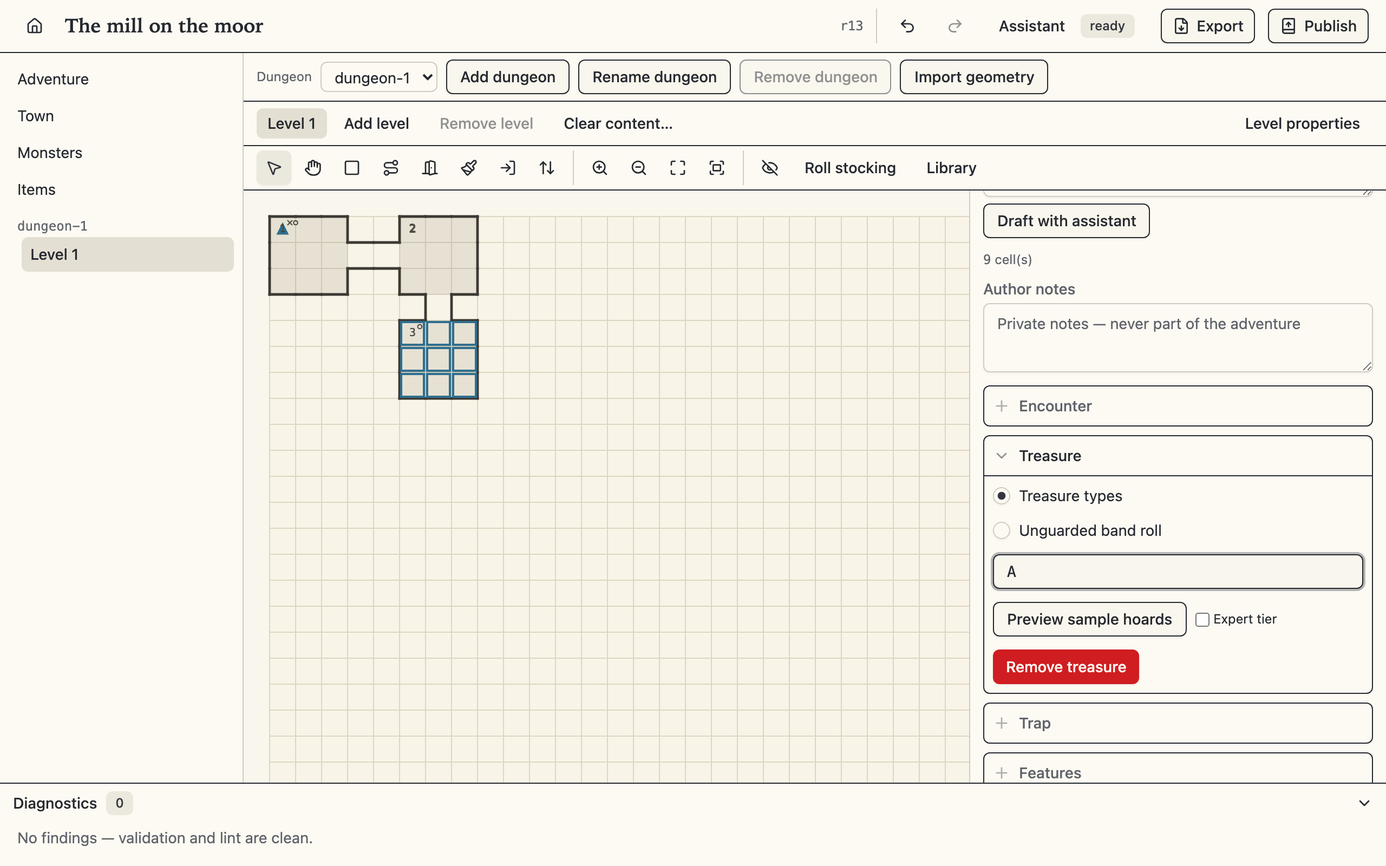
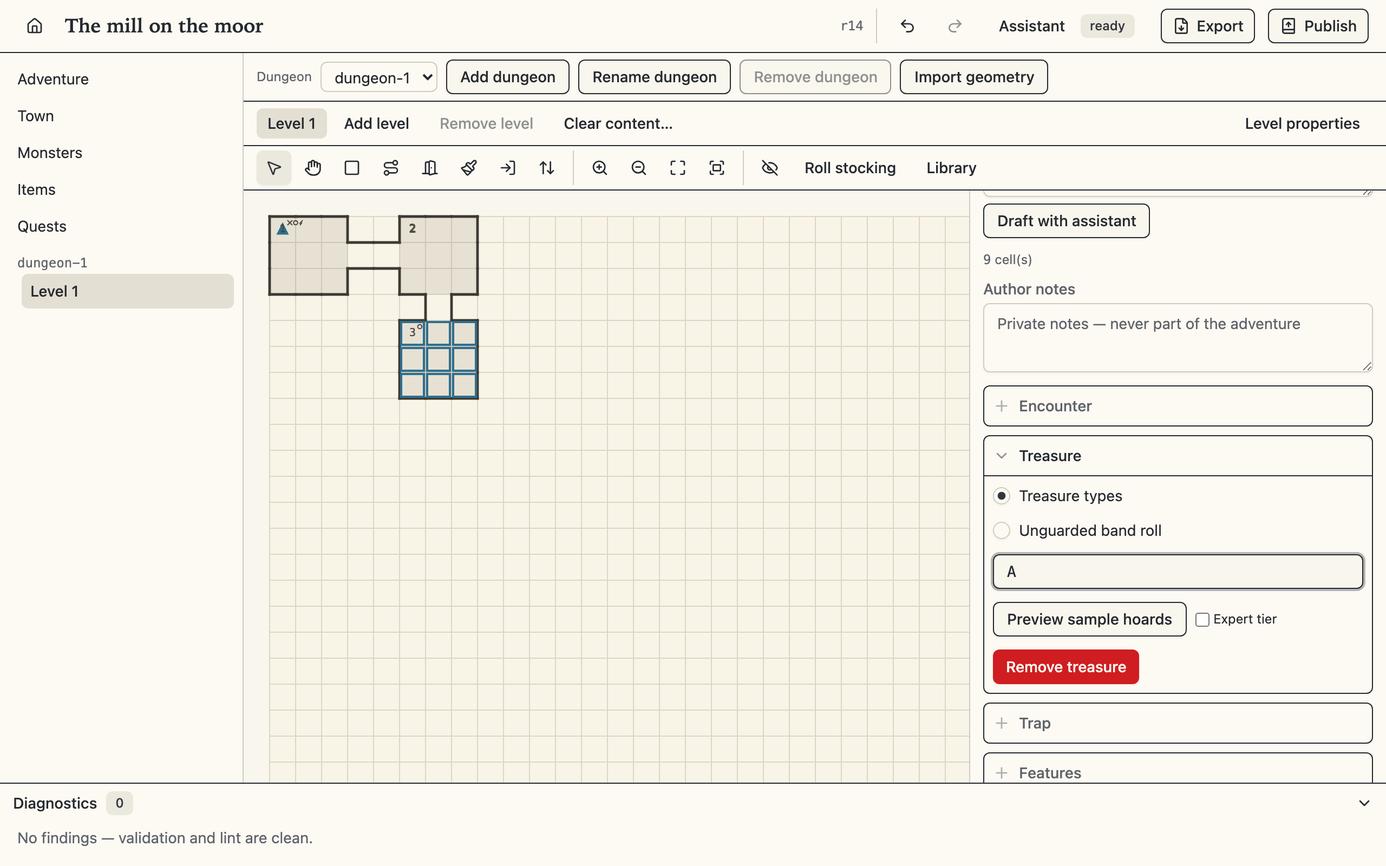
add the triggers guide, screenshots, README and CHANGELOG growth
Claude-Session: https://claude.ai/code/session_0166KkiY7Sv9PWZSoJHwKHsB

Changed region(s): [[0.0, 0.25, 0.1875, 0.375]]

diff --git a/tests/screenshots/native.spec.ts b/tests/screenshots/native.spec.ts
@@ -87,6 +87,7 @@ test('the project chrome, the map editor, and the stocking surfaces', async ({ p
   await expect(page.getByRole('button', { name: 'Adventure', exact: true })).toBeVisible()
   await expect(page.getByRole('button', { name: 'Town' })).toBeVisible()
   await expect(page.getByRole('button', { name: 'Monsters', exact: true })).toBeVisible()
+  await expect(page.getByRole('button', { name: 'Quests', exact: true })).toBeVisible()
   await shoot(page, 'project-chrome', testInfo)
 
   await openMap(page)
@@ -126,6 +127,7 @@ test('the project chrome, the map editor, and the stocking surfaces', async ({ p
   const menu = page.getByRole('menu')
   await expect(menu.getByRole('menuitem', { name: 'Add encounter' })).toBeVisible()
   await expect(menu.getByRole('menuitem', { name: 'Add treasure' })).toBeVisible()
+  await expect(menu.getByRole('menuitem', { name: 'Add trigger' })).toBeVisible()
   await shoot(menu, 'stocking-context-menu', testInfo)
 
   // Stock it: an encounter, then treasure and a trap on the same area, so the
@@ -179,6 +181,21 @@ test('the project chrome, the map editor, and the stocking surfaces', async ({ p
   await shoot(page.getByTestId('map-canvas'), 'area-hover-card', testInfo)
   await page.getByRole('button', { name: 'Unstocked filter' }).hover()
   await expect(hoverCard).toBeHidden()
+
+  // A trigger on the stocked room, so the key-glyphs shot shows the grown
+  // glyph vocabulary — the add gesture lands in the Quests panel, so the map
+  // is reopened before the shutter. The nav-scoped locator matters: the
+  // trigger row's own summary contains "level 1", so a bare Level 1 lookup
+  // would be ambiguous.
+  await page.mouse.click(guardCell.x, guardCell.y, { button: 'right' })
+  await page.getByRole('menuitem', { name: 'Add trigger' }).click()
+  await expect(page.getByTestId('trigger-detail-trigger-1')).toBeVisible()
+  await page
+    .getByRole('navigation', { name: 'Sections' })
+    .getByRole('button', { name: 'Level 1' })
+    .click()
+  await expect(page.getByTestId('map-canvas')).toBeVisible()
+  await page.getByRole('button', { name: 'Reset zoom' }).click()
 
   // The map's own reading: a stocked key number beside a hollow one, with the
   // unstocked filter dimming what is done.
@@ -357,6 +374,107 @@ test('import, export, and publish', async ({ page }, testInfo) => {
   const publishDialog = page.getByRole('dialog')
   await expect(publishDialog.getByLabel('osr-web checkout')).toHaveValue('')
   await shoot(publishDialog, 'publish-dialog', testInfo)
+})
+
+test('the quests section and the trigger surfaces', async ({ page }, testInfo) => {
+  test.setTimeout(120_000)
+  const projectDir = adventureDir(testInfo, 'trigger-demo.osr')
+
+  await freshProject(page, projectDir, 'The wheel room')
+
+  // A room drawn around the view centre — the gate-badges arrangement, so the
+  // glyph shot can magnify the lightning bolt without a pan gesture.
+  await openMap(page)
+  await page.getByRole('button', { name: 'Room tool' }).click()
+  await drag(page, await cellCenter(page, 10, 6), await cellCenter(page, 13, 8))
+  // The entrance sits in the far corner so its triangle never crowds the key
+  // number the glyph shot is about.
+  await page.getByRole('button', { name: 'Entrance tool' }).click()
+  const entranceCell = await cellCenter(page, 13, 8)
+  await page.mouse.click(entranceCell.x, entranceCell.y)
+  await page.getByRole('button', { name: 'Select tool' }).click()
+
+  // Stock the room so the glyph row has company: an encounter beside the bolt.
+  const leverCell = await cellCenter(page, 11, 7)
+  await page.mouse.click(leverCell.x, leverCell.y, { button: 'right' })
+  await page.getByRole('menuitem', { name: 'Add encounter' }).click()
+  const inspector = page.getByLabel('Inspector')
+  await inspector.getByRole('button', { name: 'Add monster' }).click()
+  await page.getByPlaceholder('Search monsters…').fill('orc')
+  await page
+    .getByRole('option', { name: /^Orc/ })
+    .first()
+    .click()
+  await expect(inspector.getByLabel('Monster lines')).toContainText('Orc')
+
+  // The trigger, from the area context menu — the one-gesture placement that
+  // lands in the Quests panel with the pattern already bound.
+  await page.mouse.click(leverCell.x, leverCell.y, { button: 'right' })
+  await page.getByRole('menuitem', { name: 'Add trigger' }).click()
+  await expect(page.getByTestId('trigger-detail-trigger-1')).toBeVisible()
+
+  // Complete it: a condition, the flag-writing consequence, and both voices —
+  // the builders the detail shot is a picture of. The condition is a carried
+  // shipped item, so the shot's document stays lint-clean.
+  await page.getByRole('button', { name: 'Add condition' }).click()
+  await page.getByRole('button', { name: 'Pick item' }).click()
+  await page.getByPlaceholder('Search items…').fill('torch')
+  await page
+    .getByRole('option', { name: /^Torch/ })
+    .first()
+    .click()
+  await expect(page.getByTestId('condition-item')).toContainText('torch')
+  await page.getByRole('button', { name: 'Add consequence' }).click()
+  await expect(page.getByLabel('Command')).toHaveValue('set_flag')
+  const consequenceKey = page.getByLabel('Flag key')
+  await consequenceKey.fill('wheel.lever')
+  await consequenceKey.press('Tab')
+  const fired = page.getByLabel('Fired')
+  await fired.fill('The counterweight drops; iron rises somewhere east.')
+  await fired.press('Tab')
+  const journal = page.getByLabel('Journal')
+  await journal.fill('A worn lever moved under our hands, and a portcullis answered.')
+  await journal.press('Tab')
+  await expect(journal).toHaveValue(
+    'A worn lever moved under our hands, and a portcullis answered.',
+  )
+
+  // A second trigger, so the list reads as the ordered surface it is.
+  await page.getByRole('button', { name: 'New trigger' }).click()
+  const createDialog = page.getByRole('dialog')
+  await createDialog.getByLabel('Fires').selectOption('town_entered')
+  await createDialog.getByRole('button', { name: 'Create' }).click()
+  await expect(page.getByTestId('trigger-detail-trigger-2')).toBeVisible()
+
+  // The section list: the numbered rows in firing order. The list pane alone
+  // is the subject — the whole section's box is its scroll extent, which
+  // stitches the diagnostics bar into the frame.
+  await page.getByTestId('trigger-row-trigger-1').getByRole('button').first().click()
+  await expect(page.getByTestId('trigger-detail-trigger-1')).toBeVisible()
+  await expect(page.getByTestId('diagnostics-count')).toHaveText('0')
+  await shoot(page.getByTestId('trigger-list-pane'), 'quests-triggers', testInfo)
+
+  // The detail editor alone, tall enough to hold the three builders in frame.
+  await page.setViewportSize({ width: 1280, height: 1700 })
+  await shoot(page.getByTestId('trigger-detail-trigger-1'), 'trigger-detail', testInfo)
+  await page.setViewportSize({ width: 1280, height: 800 })
+
+  // The glyph: back on the map (the nav-scoped locator, because the trigger
+  // row's summary contains "level 1"), zoomed about the centre the room was
+  // drawn around, the selection parked off-frame so nothing renders highlighted.
+  await page
+    .getByRole('navigation', { name: 'Sections' })
+    .getByRole('button', { name: 'Level 1' })
+    .click()
+  await expect(page.getByTestId('map-canvas')).toBeVisible()
+  await page.getByRole('button', { name: 'Reset zoom' }).click()
+  const parkCell = await cellCenter(page, 27, 14)
+  await page.mouse.click(parkCell.x, parkCell.y)
+  await page.getByRole('button', { name: 'Reset zoom' }).click()
+  for (let step = 0; step < 4; step += 1) {
+    await page.getByRole('button', { name: 'Zoom in' }).click()
+  }
+  await shoot(page.getByTestId('map-canvas'), 'trigger-glyph', testInfo)
 })
 
 test('the item editor and the gates', async ({ page }, testInfo) => {

diff --git a/frontend/src/components/quests-section.tsx b/frontend/src/components/quests-section.tsx
@@ -87,7 +87,7 @@ export function QuestsSection({
 
   return (
     <section aria-label="Quests" className="flex min-h-0 gap-6">
-      <div className="flex w-96 shrink-0 flex-col gap-3">
+      <div className="flex w-96 shrink-0 flex-col gap-3 self-start" data-testid="trigger-list-pane">
         <h2 className="font-serif text-xl font-semibold">Quests</h2>
         <div className="flex flex-col gap-1">
           <div className="flex items-center justify-between">
@@ -97,8 +97,8 @@ export function QuestsSection({
             </Button>
           </div>
           <p className="text-muted-foreground text-xs">
-            Triggers fire in this order — a later trigger's conditions see what an earlier firing
-            changed.
+            Triggers fire in this order — a later trigger's conditions are checked against what an
+            earlier firing changed.
           </p>
         </div>
         {triggers.length === 0 ? (

diff --git a/docs/guides/triggers.md b/docs/guides/triggers.md
@@ -1,0 +1,91 @@
+# Triggers
+
+The **Quests** section, beside Items in the section list, is where your module's wiring lives: the lever that raises a portcullis, the boss whose defeat unlocks the shrine, the homecoming beat that fires when the party walks back into town. This phase the section carries its trigger surface; the quest builder joins it in a later release.
+
+A trigger is an authored binding with three parts: a **pattern** naming the moment it fires on, optional **conditions** that must all hold at that moment, and **consequences** — the referee commands the engine issues when it fires. A trigger with no consequences is a perfectly normal shape: its whole job can be its journal line.
+
+Triggers pair naturally with [gates](map-editor.md#gates). A gate is checked live at the moment the party attempts something — the door the party can open only while carrying the brass key. A trigger fires on something that has already happened — the lever that raises the portcullis. The classic pairing wires one to the other: a trigger's consequence writes a flag, and a door's gate names the same key.
+
+![The quests section's trigger list: numbered rows in firing order, each with its pattern summary, counts, reorder buttons, and remove](../assets/screenshots/quests-triggers-light.png#only-light)
+![The quests section's trigger list: numbered rows in firing order, each with its pattern summary, counts, reorder buttons, and remove](../assets/screenshots/quests-triggers-dark.png#only-dark)
+
+## Order is part of the design
+
+The list shows triggers in the order they fire, and the numbering is not decoration: when one moment matches several triggers, they fire top to bottom, and each firing's changes are visible to the conditions of the triggers below it. The move buttons on each row reorder the list; nothing in the editor ever sorts it for you. Consequences inside a trigger work the same way — they execute in the order you arranged them.
+
+## The seven patterns
+
+The pattern is what the trigger watches for:
+
+- **Entering an area** — the party steps into a keyed area. The pattern names the dungeon, the level, and the area together, because area keys only mean something on their own level.
+- **Entering a level** — the party arrives on a dungeon level, whether by stairs or from town.
+- **Entering a dungeon** — the party crosses into a dungeon from town or from another dungeon.
+- **Arriving in town** — the return trip, however it happens. Town is one place, so this pattern needs no fields.
+- **Acquiring an item** — any party member picks up, is granted, or buys an item with the chosen id. The picker offers the same domain a gate's carried-item condition uses: your bundled items, the standard equipment, and the magic items.
+- **Defeating a monster** — a monster of the chosen kind is slain, routed, or surrenders. Defeats are counted when the fight ends, so the portcullis rises after the fighting stops, never mid-round.
+- **A flag is written** — a session flag is set. By default the trigger fires on any written value; untick **Any written value** to match one exact value. The value keeps its type — the comparison in play is strict, so a flag set to the number `1` never satisfies a pattern expecting the boolean `true`.
+
+## Conditions
+
+Conditions narrow the firing: the party carries an item, a flag holds a value, an effect is active. All of them must hold at the moment the pattern matches. One rule is enforced for you: a trigger's condition can never *consume* an item the way a gate's toll can. A trigger fires, it does not take — there is no attempt to charge a toll against — so the consume control simply does not exist here.
+
+## The nine commands
+
+A consequence is one of nine referee commands, and the builder offers exactly those nine:
+
+- **Grant an item** — an item from your bundle or the standard equipment (magic items are placed through [treasure caches](features.md), not granted here, matching what the game engine accepts).
+- **Grant coins** and **Award XP** — the five denominations, or an experience award.
+- **Set a flag** — the wiring command: a key and a typed value that gates and flag patterns elsewhere can match.
+- **Spawn monsters** — a monster kind, a count as dice or a fixed number (exactly one of the two), and a distance in feet. Spawning opens an encounter, so the engine requires the party standing in a dungeon with no encounter already open.
+- **Spawn an NPC party** — a basic or expert party, optional composition dice, and a distance.
+- **Set a door state** — rewrite a door's open, wedged, discovered, or unlocked state anywhere in the module. Each of the four is a three-way choice: leave unchanged, set, or clear. The door itself is picked on a map thumbnail that only accepts actual doors, so a door write can never name a blank wall.
+- **Place the party** — teleport to town, or to a dungeon cell with a facing.
+- **Advance time** — rounds, turns, or days, with full bookkeeping.
+
+The three commands that give something to a character — grant an item, grant coins, award XP — address their recipient through a two-value choice: the **whole party**, or the **first living character** in marching order. There is deliberately no way to type a character's id: characters are created when a game session starts, so an adventure document can never know one.
+
+![The trigger detail editor: the pattern, conditions, and the consequence builder](../assets/screenshots/trigger-detail-light.png#only-light)
+![The trigger detail editor: the pattern, conditions, and the consequence builder](../assets/screenshots/trigger-detail-dark.png#only-dark)
+
+## Fired and journal — the two voices
+
+A trigger's narrative block holds two beats, for two audiences:
+
+- **Fired** is the referee's line about the wiring — the engine carries it at referee visibility, table talk about what the machinery did. Players don't see it.
+- **Journal** is the players' line about the same moment, written into the party's journal in order of discovery.
+
+Speaker and guidance ride along as on every narrative block: an attribution a renderer may credit the line to, and steering for a narrating front end that is never shown to players verbatim.
+
+## Once-only, and what lives in saves
+
+A trigger is **once-only by default**: it fires the first time its pattern matches and never again, and that fired state is recorded in the play session's save — not in your document — so it survives saving, loading, and replaying. Tick **Repeatable** for a trigger that should fire every time.
+
+Two save-side notes worth knowing:
+
+- The fired mark is written *before* the consequences run. If a consequence is dropped in play — a spawn refused because an encounter is already open — a once-only trigger's one firing is still spent.
+- Renaming a trigger orphans any fired mark an existing save recorded under the old id: the renamed trigger will fire again for that save. Fresh sessions are unaffected.
+
+## Placing triggers from the map
+
+Area and level triggers can start on the map, where the geometry already is:
+
+- Right-click a keyed area and choose **Add trigger**: a trigger named `trigger-1`, `trigger-2`, … is created already bound to that area, and the Quests panel opens on it for the deep editing. Below the add entry, the same menu lists **Edit trigger** for each trigger the area already has.
+- The editor marks an area that has a trigger with a small lightning bolt in the glyph row beside the key number — presence, not a count.
+- Level triggers hang on the level itself: the **Level properties** dialog lists the level's entering-a-level triggers and offers **Add level trigger**, and a level tab whose level has one shows a small bolt marker.
+
+The other patterns — dungeon, town, item, monster, flag — have no natural place on the grid and are authored from the panel alone.
+
+![The trigger glyph: a lightning bolt beside the key number of a watched area](../assets/screenshots/trigger-glyph-light.png#only-light)
+![The trigger glyph: a lightning bolt beside the key number of a watched area](../assets/screenshots/trigger-glyph-dark.png#only-dark)
+
+## The advisory lints
+
+Three advisory checks watch the trigger layer. They are warnings by construction: they never block publishing, because each one describes something that is legal and occasionally intentional — but far more often a mistake.
+
+- **A flag nobody writes** (`flag_read_no_writer`) — a door gate, a stair gate, or a trigger names a flag key that no trigger consequence (and no quest reward) writes. The gate can never be satisfied; the trigger can never fire. The finding sits on the reading site, one per reader.
+- **A trigger cycle** (`trigger_cycle`) — triggers whose flag writes fire each other in a loop. In play the engine cuts the cascade off at a depth bound and drops the rest with a note, so the loop won't hang a game — but circular wiring is almost always an accident. One finding per loop, naming its members.
+- **A spawn colliding with a keyed encounter** (`trigger_spawn_collision`) — an entering-an-area trigger whose consequences spawn monsters into an area that already has a keyed encounter. Entering the area opens the keyed encounter first, the spawn is refused because an encounter is in progress, and a once-only trigger's firing is spent anyway. Move the spawn, or let the keyed encounter be the fight.
+
+## In converted projects
+
+A project still in [forge-backed review](forge-backed-review.md) cannot hold triggers: the conversion pipeline's correction vocabulary has no authored-layer surface, a deliberate gap tracked at [osr-forge#39](https://github.com/mmacy/osr-forge/issues/39). The Quests entry still opens; it explains exactly this and offers **Detach to a native project** in place — the crossing that unlocks trigger authoring, and quests after it.

diff --git a/CHANGELOG.md b/CHANGELOG.md
@@ -9,6 +9,8 @@ and this project adheres to [Semantic Versioning](https://semver.org/spec/v2.0.0
 
 ### Added
 
+- Triggers — the module's wiring, and the **Quests** section that carries it (the quest builder itself follows in a later phase). A trigger binds one of seven observable patterns — entering an area, a level, a dungeon, or town; acquiring an item; defeating a monster; a flag being written, with an any-value default and a strictly-typed exact-value option — through optional conditions (the shared condition builder, with the consume control deliberately absent: a trigger fires, it does not take, and the engine rejects a consuming trigger condition at parse) to consequences drawn from the engine's closed nine-command vocabulary: grant an item (equipment only, matching what the engine accepts), grant coins, award XP, set a flag, spawn monsters or an NPC party, set a door's state through a picker that offers only actual doors, place the party, and advance time. The three character-addressed commands take a two-value recipient — whole party or first living character — never a typed id, because a document can never know a session's character ids. The list renders document order as the semantics it is: triggers fire top to bottom, each firing visible to the conditions below it, with move buttons riding the new `MoveTrigger` op; consequences keep their authored order through every edit. Each firing speaks in two voices — **fired**, the referee's line, and **journal**, the players' — and once-only is the default, with the fired state living in saves rather than the document. Area and level triggers place straight from the map: **Add trigger** on the area context menu mints one bound to that area (a lightning-bolt glyph joins the key number's row), and the level properties dialog lists and adds entering-a-level triggers, with a bolt marker on the level tab. Trigger validation findings now classify to navigable `trigger:<id>` addresses across all thirteen shapes, and three advisory lints — warnings by construction, never gating publish — watch the layer: a flag read that nothing writes, triggers whose flag writes fire each other in a loop, and an area-entry spawn aimed at an area whose keyed encounter would open first and drop it. In a forge-backed project the four trigger ops block whole with the detach offer, and the Quests entry explains the overrides-vocabulary gap ([osr-forge#39](https://github.com/mmacy/osr-forge/issues/39)) with detach in place.
+
 - Bundled items and gates — the authored layer's opening. A new **Items** section beside Monsters stocks bespoke equipment templates across all four kinds (weapon, armour, gear, ammunition): create from per-kind model-valid seeds or clone any catalog item, with an id collision against shipped equipment, shipped magic, *or* the bundle refused at commit with an inline rename prompt — an item id names one thing per session, so the domain is the full width the engine resolves against. Renames cascade in one undo step over every reference: cache item lists, gate conditions, and the authored-layer sites a document can carry. The treasure-cache item picker now serves the *effective* catalog — the bundle first, under "This adventure" — which is what makes "cache the key in room 1" possible, and cache rows resolve ids to names over the same domain. Doors and level-placed transitions take **gates**: one condition (carries an item — with a consuming toll option, taken from the first carrier in marching order per success; a flag compared strictly through a typed value control; or an active effect) plus authored refusal and success text with speaker attribution and narrator guidance, composing with the door's own locked and stuck rather than replacing them. Gated doors and transitions badge on the map with a pencil-palette diamond, auto-reciprocal stairs are born ungated, reachability lint stays deliberately gate-blind, and a trap's slide offers no gate because the engine rejects one at parse. Level properties gains a **guidance** field — per-level narrator steering, inert to the engine. In a forge-backed project every authored-layer edit blocks with the detach offer (the overrides vocabulary has no authored-layer surface, forge's recorded decision at [osr-forge#39](https://github.com/mmacy/osr-forge/issues/39)), and the Items entry navigates to that explanation with detach in place. Rides the osrlib floor raised to `>=1.6,<2` — schema 3, every document re-stamped once — with every re-keying op (dungeon renames, level renumbers, area re-keys, monster and item renames) now cascading over the trigger and quest reference sites a 1.6 document can carry.
 
 - Every panel around the map is dragged to the width the work wants ([#50](https://github.com/mmacy/osr-editor/issues/50)). The section list, the inspector, the content library, and the source-pages pane were each pinned to a fixed width, so every long room name, section label, or path was a truncation decision the layout made on the author's behalf — an author with a wide window and a wordy module could not trade canvas for panel by so much as a pixel. Splitters now sit between the canvas and each of them, built on the `resizable` component over `react-resizable-panels`, so they come with keyboard-operable, correctly-labelled separators rather than a hand-rolled drag. Neither side can be dragged into uselessness: each panel carries its own floor and ceiling, and the canvas keeps a floor of its own, so no panel can take the window. Widths ride the sidecar's `view_state` beside the per-level cameras — additive `pane_widths` fields, written when a drag ends and never per pointer frame — so a layout survives closing the project the way the camera already did. The inspector's widen-for-an-area behaviour becomes what it always should have been: a default, in force until the author drags the pane, after which their width holds whatever is selected. A pane that merely opened at its default is not a pane anyone sized, so opening the library never quietly pins the inspector.

diff --git a/README.md b/README.md
@@ -27,6 +27,7 @@ The editor serves on `http://127.0.0.1:8630` and opens your browser to the home 
 - **[Stocking and keyed content](https://mmacy.github.io/osr-editor/guides/stocking-and-keyed-content/)** — the map-first stocking flow, through type-ahead pickers that never author a dangling reference, with a page per content kind: [encounters](https://mmacy.github.io/osr-editor/guides/encounters/) and the level's wandering table, [treasure](https://mmacy.github.io/osr-editor/guides/treasure/), [traps](https://mmacy.github.io/osr-editor/guides/traps/), and [features](https://mmacy.github.io/osr-editor/guides/features/).
 - **[The monster editor](https://mmacy.github.io/osr-editor/guides/monster-editor/)** — full stat-block authoring over the adventure's bundled templates: create from scratch or clone any catalog monster, with renames cascading through every reference.
 - **[The item editor and gates](https://mmacy.github.io/osr-editor/guides/item-editor/)** — create items of your own beside the standard catalog (the brass key the module is about), cache them for the party to find, and gate doors and stairways on carrying them — with your own refusal and success text, tolls that consume the item, and per-level narrator guidance.
+- **[Triggers](https://mmacy.github.io/osr-editor/guides/triggers/)** — the module's wiring: seven observable patterns, nine referee-command consequences, and two narrative voices per firing, authored in the Quests panel or placed straight from the map — the lever that raises the portcullis, with advisory lints watching for flags nobody writes, trigger cycles, and spawns that collide with keyed encounters.
 - **[Forge-backed review](https://mmacy.github.io/osr-editor/guides/forge-backed-review/)** — open an osr-forge workdir and correct it graphically: the report as a work list beside the source pages, every edit a reasoned `overrides.yaml` entry on forge's own pure assemble loop.
 - **[Converting a PDF](https://mmacy.github.io/osr-editor/guides/converting-a-pdf/)** — the front door to forge's pipeline: price the run first, convert with live progress and cooperative cancel, land in the review queue. No credential is ever written to disk.
 - **[Authoring aids](https://mmacy.github.io/osr-editor/guides/authoring-aids/)** — SRD stocking with seeded, reproducible re-rolls; treasure and encounter previews; and the prose assistant, present only when a provider is configured.

diff --git a/docs/guides/stocking-and-keyed-content.md b/docs/guides/stocking-and-keyed-content.md
@@ -4,14 +4,14 @@ Stocking is map-first: the map shows you what needs work, and the gestures start
 
 ## The stocking menu
 
-Right-click an area cell for the stocking menu: description, encounter, treasure, trap, and features, each offered as add or edit-plus-remove to match what the area already holds. **Roll SRD stocking** appears on blank rooms — see [authoring aids](authoring-aids.md).
+Right-click an area cell for the stocking menu: description, encounter, treasure, trap, and features, each offered as add or edit-plus-remove to match what the area already holds. **Roll SRD stocking** appears on blank rooms — see [authoring aids](authoring-aids.md). The menu also holds **Add trigger**, which creates a [trigger](triggers.md) bound to entering that area and opens it in the Quests panel, plus an edit entry for each trigger the area already has.
 
 ![The right-click stocking menu offering description, encounter, treasure, trap, and features](../assets/screenshots/stocking-context-menu-light.png#only-light)
 ![The right-click stocking menu offering description, encounter, treasure, trap, and features](../assets/screenshots/stocking-context-menu-dark.png#only-dark)
 
 ## Reading the map
 
-Key numbers render hollow until an area is stocked (a description or any content), and the editor marks encounters, traps, and treasure with glyphs beside the number. Hovering shows the area's one-line contents in module notation. `F` dims stocked areas so the blanks stand out, and `[` / `]` walk areas in key order — with the filter on, the walk visits unstocked areas only.
+Key numbers render hollow until an area is stocked (a description or any content), and the editor marks encounters, traps, and treasure with glyphs beside the number — and an area that has an entering-the-area [trigger](triggers.md) with a small lightning bolt. Hovering shows the area's one-line contents in module notation. `F` dims stocked areas so the blanks stand out, and `[` / `]` walk areas in key order — with the filter on, the walk visits unstocked areas only.
 
 ![Key numbers on the map, hollow where an area is unstocked and glyphed where it holds content](../assets/screenshots/map-key-glyphs-light.png#only-light)
 ![Key numbers on the map, hollow where an area is unstocked and glyphed where it holds content](../assets/screenshots/map-key-glyphs-dark.png#only-dark)

diff --git a/docs/guides/map-editor.md b/docs/guides/map-editor.md
@@ -50,7 +50,7 @@ Widths belong to the project, kept in its editor sidecar beside the per-level ca
 
 An adventure holds any number of dungeons, each with any number of levels. The map chrome manages both: create, rename, and renumber (renames cascade through every reference in one undo step), and resize a level — with the offenders listed first when a shrink would strand geometry. **Remove level** discards the level from the row itself; a dungeon's last level can't go, and hovering the dimmed control says why.
 
-Level properties also holds three authoring surfaces the map itself doesn't show: the level's [wandering monster table](encounters.md#wandering-monsters), its [level-scope features](features.md#level-features) for the tricks and caches that belong to a corridor rather than to any keyed room, and its **guidance** — ambient steering for a narrating front end, per-level narrator direction that the engine never acts on and players never see verbatim.
+Level properties also holds four authoring surfaces the map itself doesn't show: the level's [wandering monster table](encounters.md#wandering-monsters), its [level-scope features](features.md#level-features) for the tricks and caches that belong to a corridor rather than to any keyed room, its **guidance** — ambient steering for a narrating front end, per-level narrator direction that the engine never acts on and players never see verbatim — and its **triggers** block, which lists the [triggers](triggers.md) that fire on entering this level and offers **Add level trigger**. A level tab whose level has one shows a small bolt marker.
 
 **Clear content** strips a level back to its geometry in one undo step, which is what you want after importing a map whose rooms arrive already described. The grid, the walls and doors, the cells they enclose, the entrance, the transitions, and the wandering monsters all stay; area names and descriptions, encounters, traps, treasure, and features go. The dialog counts exactly what it will remove before you commit.
 
